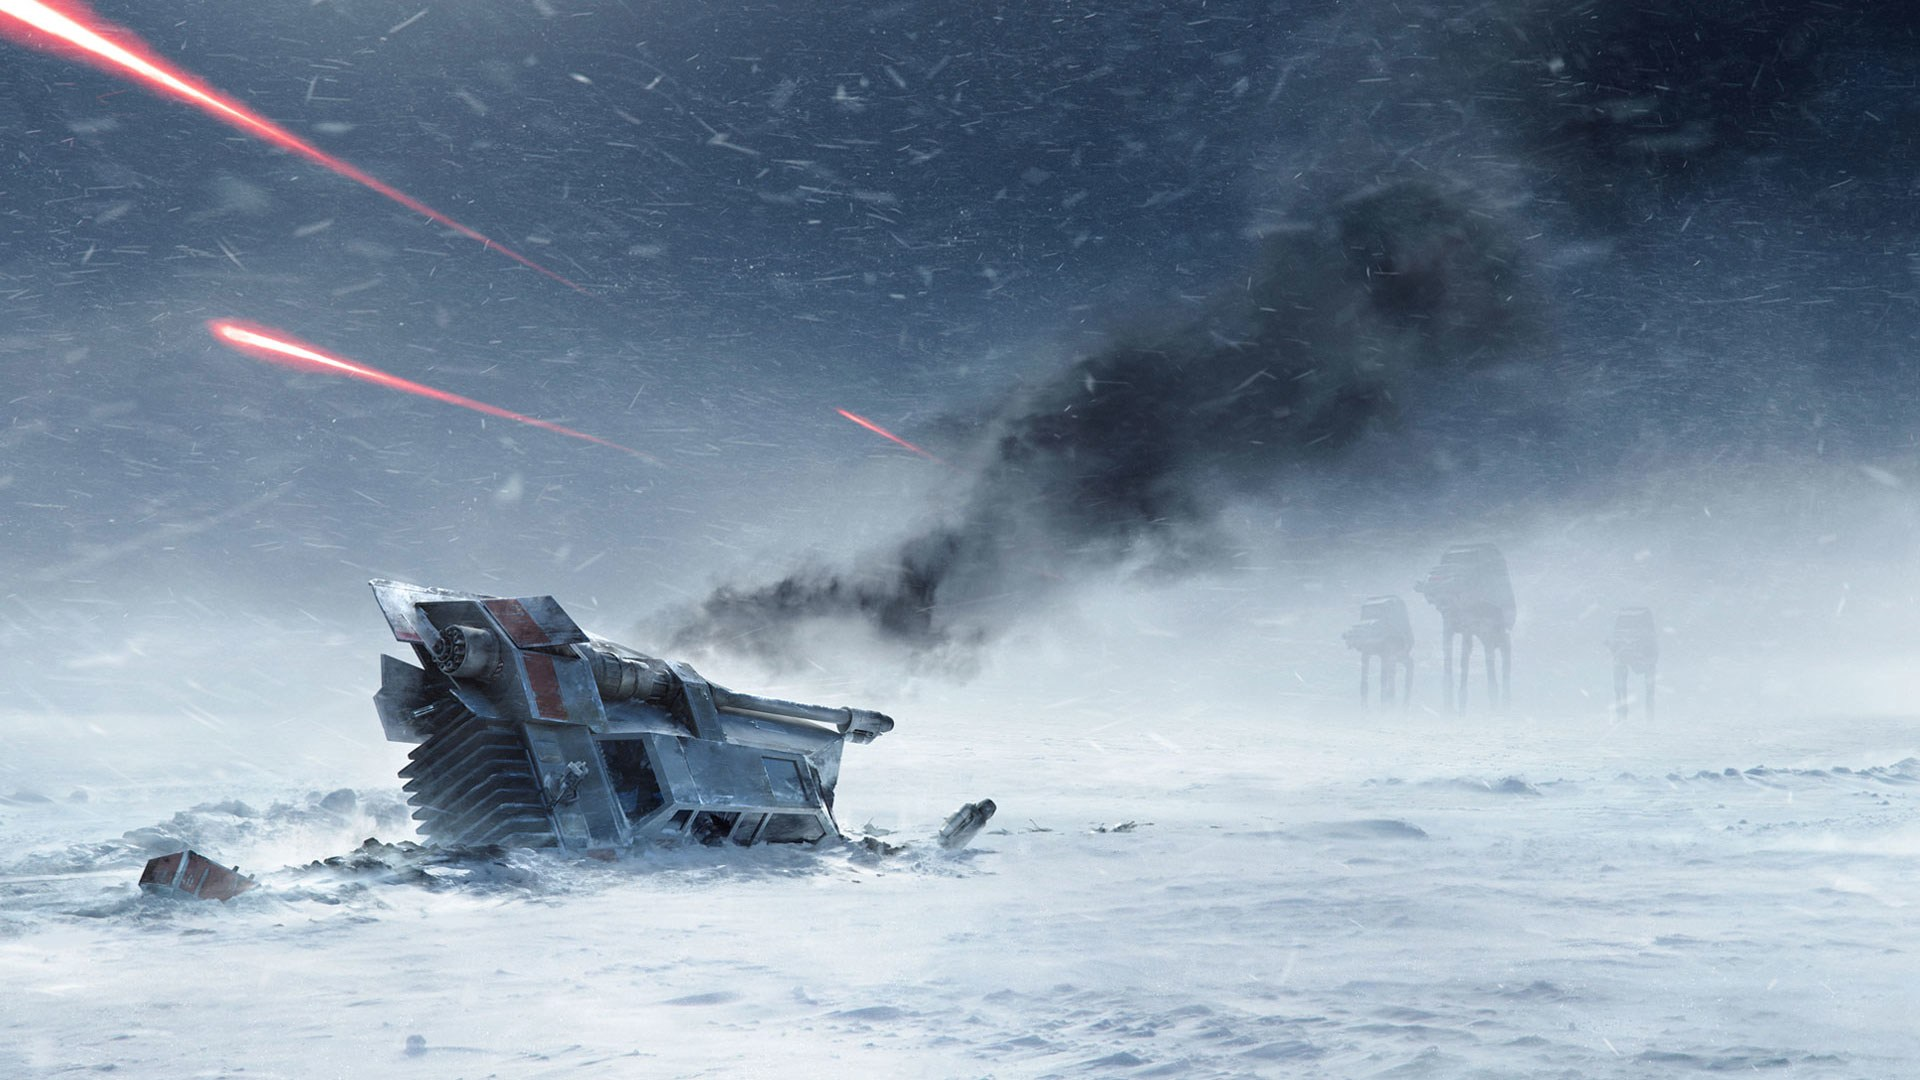
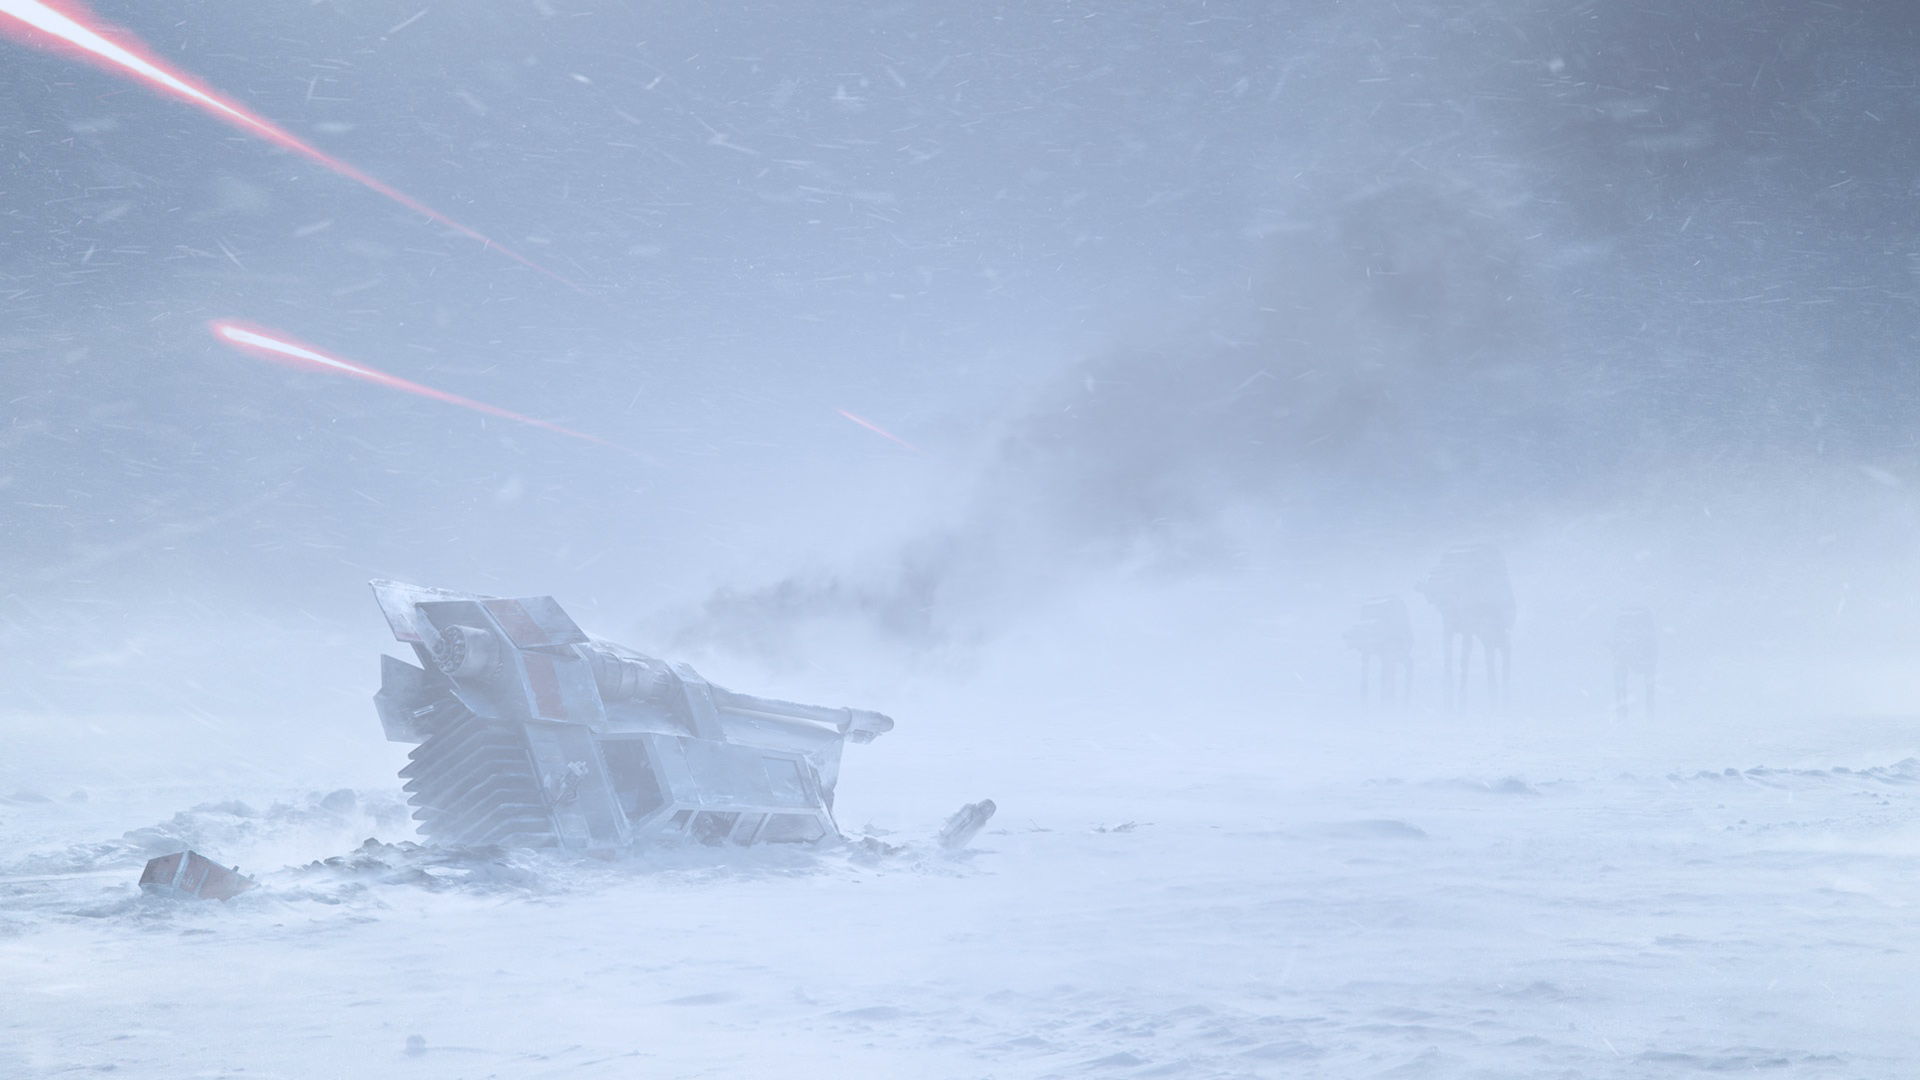
...

diff --git a/assets/js/players.js b/assets/js/players.js
@@ -4,8 +4,8 @@ var players = [
      role:'player', //Player or Opponent
      status: 'alive',
      healthPoints:180,
-     attackPower:12,
-     attackMultiplier:12,
+     attackPower:10,
+     attackMultiplier:10,
      counterAttack: this.attackMultiplier,
      incrementAttack: ()=>{
         this.attackPower += this.attackMultiplier
@@ -25,7 +25,7 @@ var players = [
     {name: "Clone",
      role:'player', //Player or Opponent
      status: 'alive',
-     healthPoints:50,
+     healthPoints:70,
      attackPower:4,
      attackMultiplier:4,
      counterAttack: this.attackMultiplier,
@@ -47,9 +47,9 @@ var players = [
     {name: "Dooku",
      role:'player', //Player or Opponent
      status: 'alive',
-     healthPoints:160,
-     attackPower:16,
-     attackMultiplier:16,
+     healthPoints:130,
+     attackPower:12,
+     attackMultiplier:12,
      counterAttack: this.attackMultiplier,
      incrementAttack: ()=>{
         this.attackPower += this.attackMultiplier
@@ -91,9 +91,9 @@ var players = [
     {name: "Obi-Wan",
      role:'player', //Player or Opponent
      status: 'alive',
-     healthPoints:130,
-     attackPower:10,
-     attackMultiplier:10,
+     healthPoints:140,
+     attackPower:7,
+     attackMultiplier:7,
      counterAttack: this.attackMultiplier,
      incrementAttack: ()=>{
         this.attackPower += this.attackMultiplier
@@ -114,8 +114,8 @@ var players = [
      role:'player', //Player or Opponent
      status: 'alive',
      healthPoints:170,
-     attackPower:16,
-     attackMultiplier:16,
+     attackPower:11,
+     attackMultiplier:11,
      counterAttack: this.attackMultiplier,
      incrementAttack: ()=>{
         this.attackPower += this.attackMultiplier

diff --git a/assets/js/game.js b/assets/js/game.js
@@ -32,6 +32,7 @@ var battle = {
             }
             else{
                 $('#UHS').html('<h3>You beat the game! There is nobody left...</h3>');
+                $('#oppHealth').html("<h2>Try winning with the clone :)</h2><br><button class='btn btn-success' onclick='reload()'>Start Over?</button>");
             }
             
         }
@@ -109,6 +110,8 @@ const oppSelect = function (oppName){
     // Fade this in later
     $("#arena").append(battle.opponent.card);
     $('#available-players').fadeOut(1000);
+    $('#OHS').empty();
+    $('#UHS').empty();
     $('#arena').fadeIn(1700);
 }
 

diff --git a/assets/css/stylesheet.css b/assets/css/stylesheet.css
@@ -9,13 +9,16 @@
     font-family: "STARWARS" !important;
 }
 body{
-    /* background-image: url(../images/battlefront-background.jpg); */
+    background-image: url(../images/battlefront-background.jpg);
 }
 
 
 .btn-primary, .btn-danger{
     font-size: 2vw;
     padding: .375rem 1vw;
+}
+.card{
+    margin-bottom: 20px;
 }
 .card-title{
     font-size:4vw;
